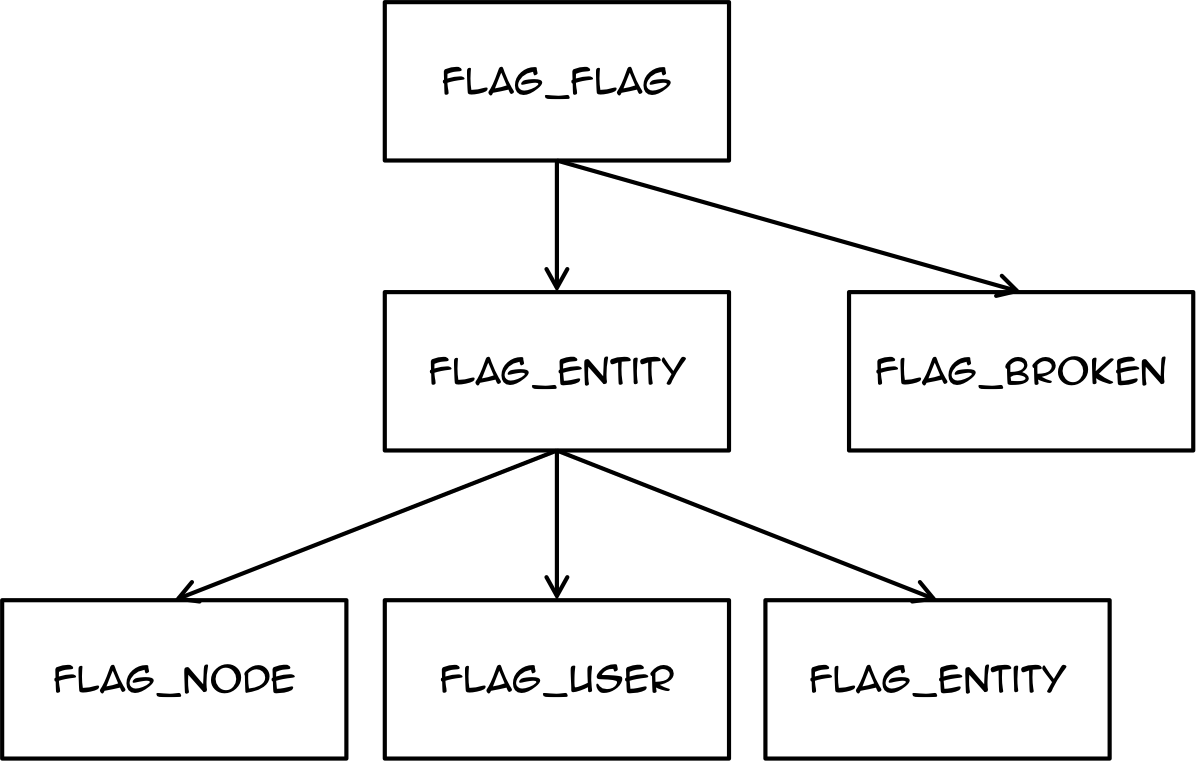
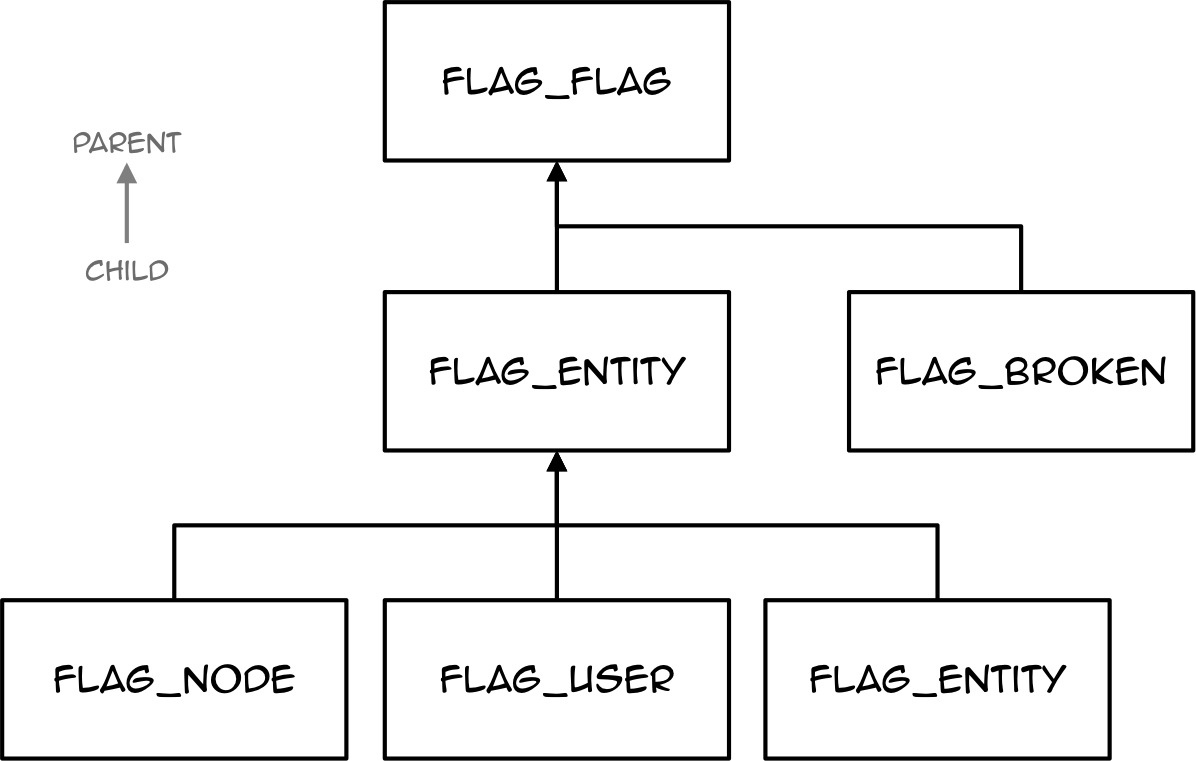
Fixed some graphics, added comic describing annotations.

diff --git a/index.html b/index.html
@@ -110,14 +110,30 @@
                 </section>
             </section>
             <section class="stack" data-id="2eda12688c9e358234a752eaeea8da8b">
-                <section class="" data-id="0fb5afc1a693ec458d49695caf7040e6" data-background-image="images/flagOnD8-background.png" data-background-size="contain">
+                <section class="" data-id="0fb5afc1a693ec458d49695caf7040e6">
                     <h1>What is Flag?</h1>
+                    <img src="images/flaggingUI.png" />
+                </section>
+                <section data-transition="none">
+                    <img src="images/node0.png" />
+                </section>
+                <section data-transition="none">
+                    <img src="images/node1.png" />
+                </section>
+                <section data-transition="none">
+                    <img src="images/node2.png" />
+                </section>
+                <section data-transition="none">
+                    <img src="images/node3.png" />
+                </section>
+                <section>
+                    <h1>Flag Module Defined</h1>
                     <div>
                         <blockquote> Enables administrators to define boolean fields that can be attached to site content which each user may set or unset.</blockquote>
                     </div>
-                    <br>
-                    <div>https://www.drupal.org/project/flag<br>
-                    </div>
+                </section>
+                <section>
+                    <img src="images/flagProcess.png" />
                 </section>
                 <section class="" data-id="79a119dadbe7b01ac987f08f84358661">
                     <h2>Flags</h2>
@@ -135,34 +151,6 @@
                     </p>
                     <p>May be fielded (7.x-3.x)</p>
                     <br>
-                </section>
-                <section class="" data-id="c9e87eba19fc79e9ac5eab68765a111c">
-                    <h2>Flag Properties</h2>
-                    <div>
-                        <table>
-                            <tbody>
-                            <tr>
-                                <td>Label</td>
-                                <td>Machine Name</td>
-                            </tr>
-                            <tr>
-                                <td>Flag Link Text</td>
-                                <td>Unflag Link Text</td>
-                            </tr>
-                            <tr>
-                                <td>Flag Type</td>
-                                <td>Link Type</td>
-                            </tr>
-                            <tr>
-                                <td>Is Global</td>
-                                <td>Permissions</td>
-                            </tr>
-                            </tbody>
-                        </table>
-                    </div>
-
-
-
                 </section>
                 <section class="" data-id="b186933e1dff24329b808322ff713b27">
                     <h2>Flaggings</h2>
@@ -183,17 +171,6 @@
                     <p>
                         <br>
                     </p>
-                </section>
-                <section class="" data-id="aa9dc378b6e7c0f8f0a4521e9917452a">
-                    <h2>Bundles</h2>
-                    <div>Content Type is to a Node</div>
-                    <div>Flag is to a Flagging</div>
-                    <div>
-                        <br>
-                    </div>
-                    <div>
-                        <br>
-                    </div>
                 </section>
                 <section class="" data-id="d00f04a0006edcae4f6a919530c0afc8">
                     <h2>Flaggables</h2>
@@ -222,6 +199,9 @@
                     <div>Entity support was refactored in</div>
                     <div>OOP was used, but...</div>
                 </section>
+                <section>
+                    <img src="images/theBlob.jpg" />
+                </section>
                 <section class="" data-id="cc5e3b99b3f344d317d71c9fda057f31">
                     <h2>How PHP4 Classes look today</h2>
                     <div>Weird factory methods</div>
@@ -234,9 +214,12 @@
 </code></pre>
                     </div>All methods were public<br>
                     <div>All class variables were public</div>
+                    <div>Basically, a big blob of functions</div>
                 </section>
-                <section>
-                    <img src="images/theBlob.jpg" />
+            </section>
+            <section class="stack" data-id="e75ea9ffe1619a7d7bfff7cd6a083998">
+                <section class="" data-id="0463a0ff412280ac978daf97c6bc57a6" data-background-image="images/flagOnD8-background.png" data-background-size="contain">
+                    <h1>Where to start?</h1>
                 </section>
                 <section class="" data-id="3de099415b38ee21de0bf16301f9683c">
                     <h2>Question all the things!</h2>
@@ -244,11 +227,6 @@
                         <img src="images/questionAllTheThigns.png" style="width: 684.7110872250407px; height: 460.39070419235867px; max-height: none; max-width: none;">
                         <br>
                     </div>
-                </section>
-            </section>
-            <section class="stack" data-id="e75ea9ffe1619a7d7bfff7cd6a083998">
-                <section class="" data-id="0463a0ff412280ac978daf97c6bc57a6">
-                    <h1>Where to start?</h1>
                 </section>
                 <section class="" data-id="0b2785293e4c36b618e3fa0237f11cfe" data-background-color="rgba( 255, 255, 255, 0.6 )">
                     <h2>Set some expectations</h2>
@@ -332,22 +310,22 @@
                     <h2>flag.schema.yml</h2>
                     <div>&lt;moduleRoot&gt;/config/schema/</div>
                     <div>
-<pre><code> flag.flag.*:
+<pre><code>flag.flag.*:
     type: config_entity
     label: 'Flag'
     mapping:
-    id:
-    type: string
-    label: 'Flag identifier'
-    is_global:
-    type: boolean
-    label: 'Is flag global'
-    flag_short:
-    type: string
-    label: 'Flag Link Text'
-    unflag_short:
-    type: string
-    label: 'Unflag Link Text'
+        id:
+            type: string
+            label: 'Flag identifier'
+        is_global:
+            type: boolean
+            label: 'Is flag global'
+        flag_short:
+            type: string
+            label: 'Flag Link Text'
+        unflag_short:
+            type: string
+            label: 'Unflag Link Text'
 </code></pre>
                     </div>
                     <font style="font-size: 24px;">(above is just a sample)</font>
@@ -360,27 +338,6 @@
                     <div>
                         <br>
                     </div>
-                </section>
-                <section class="" data-id="796cdb5637978fc09cd10c10817ccac8">
-                    <h2>Flag class variables</h2>
-                    <div>
-<pre><code>class Flag extends ConfigEntityBase implements FlagInterface {
-    public $id;
-    public $uuid;
-    public $entity_type = NULL;
-    public $label;
-    protected $is_global = FALSE;
-    protected $enabled = TRUE;
-    public $types = array();
-    public $flag_short = '';
-    public $flag_long = '';
-    public $flag_message = '';
-    public $unflag_short = '';
-    public $unflag_long = '';
-    public $unflag_message = '';
-    }</code></pre>
-                    </div>
-                    <br>
                 </section>
                 <section class="" data-id="47aa554dbe9bbbed9f8139d1eff34185">
                     <h2>Getters and Setters</h2>
@@ -400,6 +357,18 @@ ConfigEntityBase::set($property_name, $value);</code></pre>
             <section class="stack" data-id="dbf16219b934b17c49fb58f8774ddf7f">
                 <section class="" data-id="622a46b8c7bef9ee899e130e624cbac7" data-background-image="images/flagOnD8-background.png" data-background-size="contain">
                     <h1>Plugging Flag Entity Into Drupal</h1>
+                </section>
+                <section data-transition="none">
+                    <img src="images/annotation1.png" />
+                </section>
+                <section data-transition="none">
+                    <img src="images/annotation2.png" />
+                </section>
+                <section data-transition="none">
+                    <img src="images/annotation3.png" />
+                </section>
+                <section data-transition="none">
+                    <img src="images/annotation4.png" />
                 </section>
                 <section class="" data-id="7ea780f7a0e5b553ea3bd0c673063fe7">
                     <h2>Annotations</h2>
@@ -422,23 +391,19 @@ ConfigEntityBase::set($property_name, $value);</code></pre>
     label = @Translation("Flag"),
     admin_permission = "administer flags",
     controllers = {
-    "list_builder" = "Drupal\flag\Controller\FlagListController",
-    "form" = {
-    "add" = "Drupal\flag\Form\FlagAddForm",
-    "edit" = "Drupal\flag\Form\FlagEditForm",
-    "delete" = "Drupal\flag\Form\FlagDeleteForm"
-    }
-    },
-    bundle_of = "flagging",
-    entity_keys = {
-    "id" = "id",
-    "label" = "label",
+        "list_builder" = "Drupal\flag\Controller\FlagListController",
+        "form" = {
+            "add" = "Drupal\flag\Form\FlagAddForm",
+            "edit" = "Drupal\flag\Form\FlagEditForm",
+            "delete" = "Drupal\flag\Form\FlagDeleteForm"
+        }
     },
     links = {
-    "edit-form" = "flag.edit",
-    "delete-form" = "flag.delete"
+        "edit-form" = "flag.edit",
+        "delete-form" = "flag.delete"
     }
-    )</code></pre>
+)</code></pre>
+                        <div>(Again, only a sample)</div>
                     </div>
                     <br>
 
